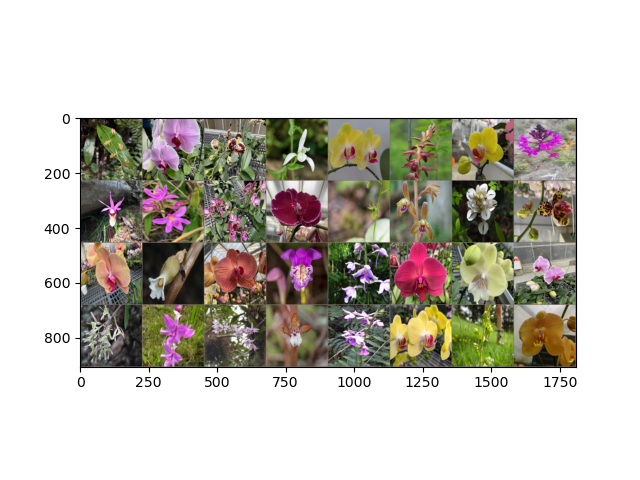
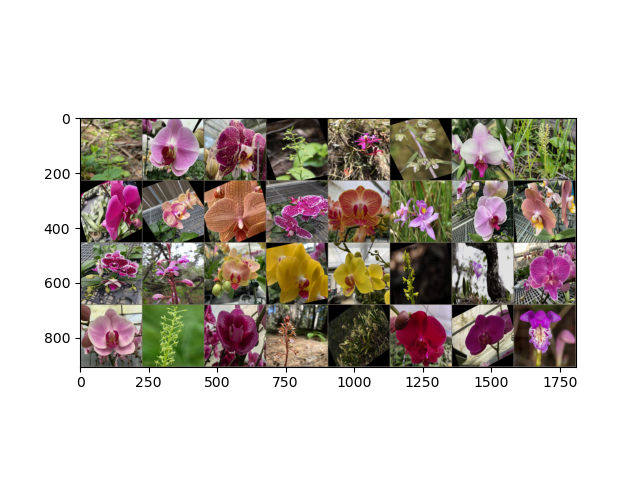
randomchoice+水平翻轉+隨機旋轉

diff --git a/hw2.py b/hw2.py
@@ -43,18 +43,26 @@ data_transforms = {
             # # transforms.RandomAdjustSharpness(sharpness_factor=10),
             # # transforms.RandomErasing(p=1.0, scale=(0.3,0.3), ratio=(0.5,0.5)),
 
+            # transforms.Resize((224,224) ),
+            # ########在此區塊填入圖像轉換方法########
+            # transforms.RandomHorizontalFlip(p=0.5),
+            # transforms.transforms.ColorJitter(saturation=0.2),
+            # # transforms.RandomVerticalFlip(p=0.5),
+            # ########################################
+            # transforms.ToTensor(),
+            # transforms.Normalize((0.485, 0.456, 0.406), (0.229, 0.224, 0.225)),
+
+            transforms.RandomChoice([
+              transforms.RandomHorizontalFlip(p=0.5),
+              # transforms.RandomVerticalFlip(p=0.5),
+              transforms.RandomRotation(degrees=(0,30)),
+            ]),
+            # transforms.CenterCrop((480,480)),
             transforms.Resize((224,224) ),
-            ########在此區塊填入圖像轉換方法########
-            transforms.RandomHorizontalFlip(p=0.5),
-            transforms.transforms.ColorJitter(saturation=0.2),
-            # transforms.RandomVerticalFlip(p=0.5),
-            ########################################
-            transforms.ToTensor(),
-            transforms.Normalize((0.485, 0.456, 0.406), (0.229, 0.224, 0.225)),
 
             ########################################
-            # transforms.ToTensor(),
-            # transforms.Normalize([0.485, 0.456, 0.406], [0.229, 0.224, 0.225])
+            transforms.ToTensor(),
+            transforms.Normalize([0.485, 0.456, 0.406], [0.229, 0.224, 0.225])
         ]),
         'val': transforms.Compose([
             transforms.Resize((224,224) ),
